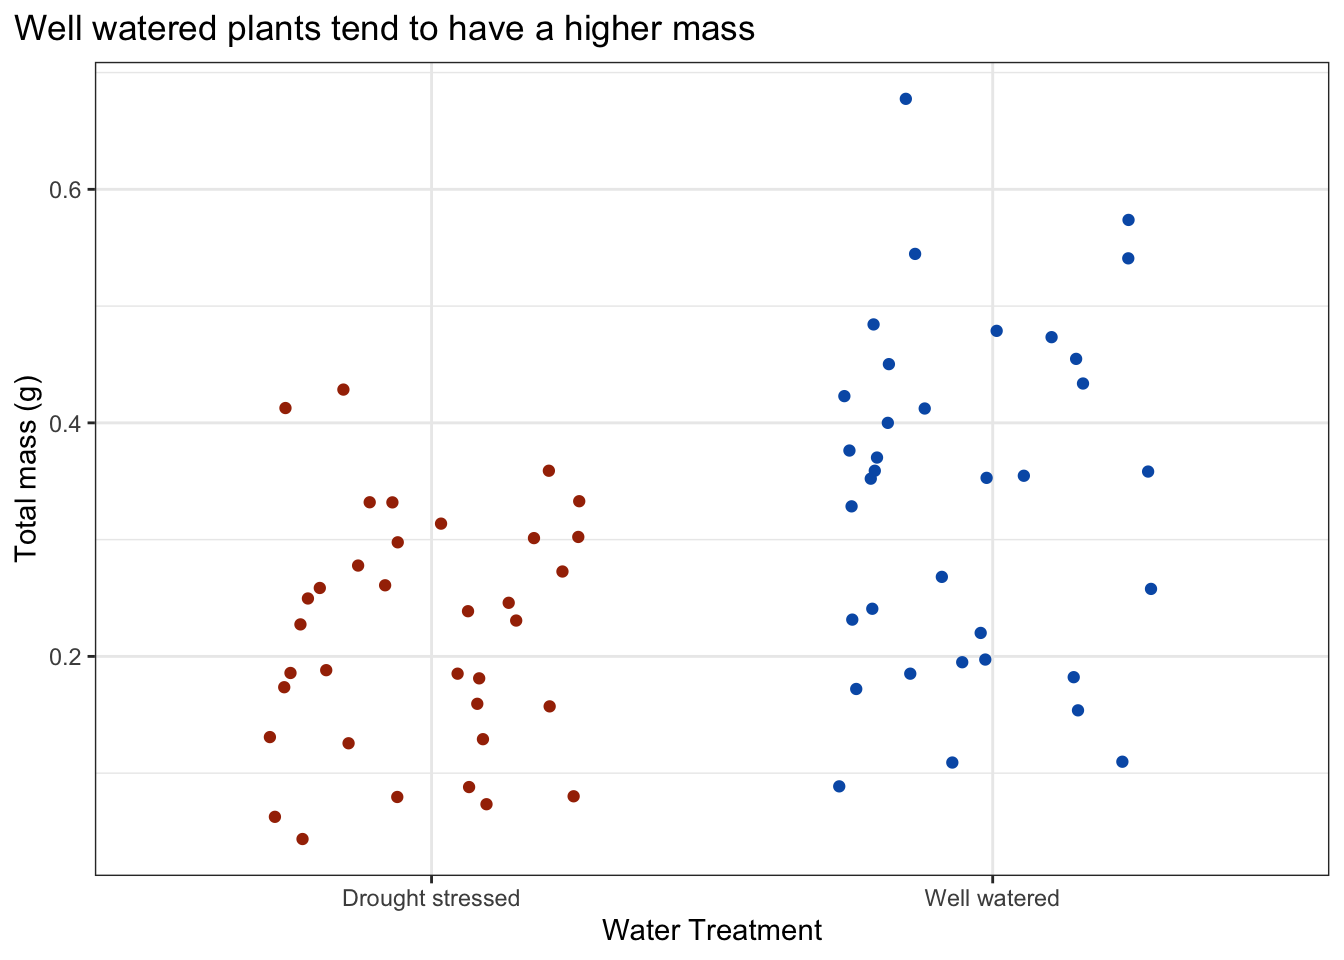
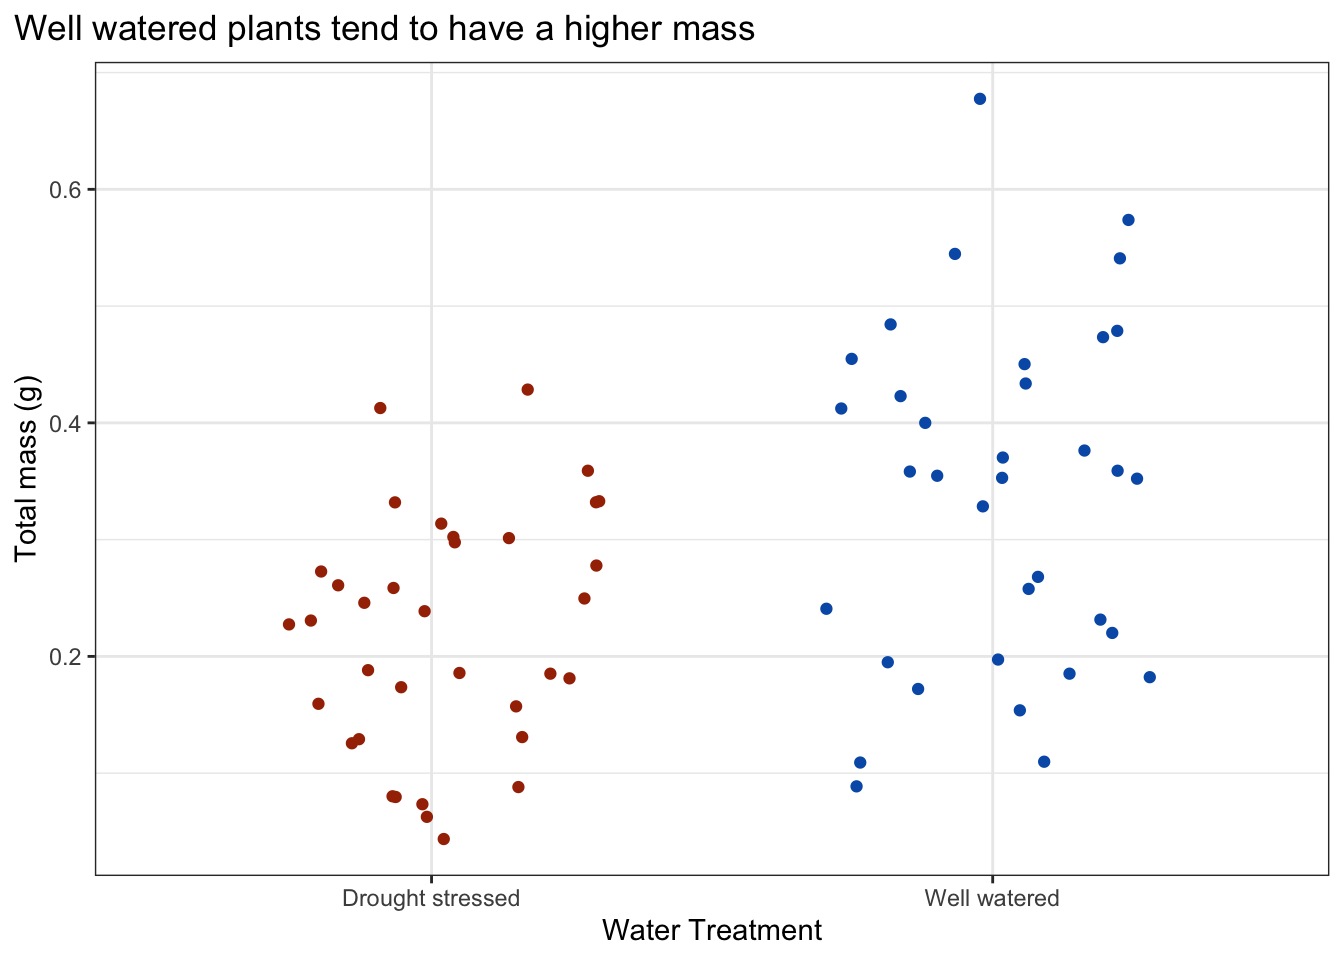
selected best model, looked at summary and wrote about the outcome

diff --git a/code/workshop-code.html b/code/workshop-code.html
@@ -301,16 +301,16 @@ pre > code.sourceCode > span > a:first-child::before { text-decoration: underlin
 <pre><code># A tibble: 10 × 4
    species_name               water_treatment    sla total_g
    &lt;fct&gt;                      &lt;fct&gt;            &lt;dbl&gt;   &lt;dbl&gt;
- 1 Lotus scoparius            Well watered     140.   0.110 
- 2 Penstemon centranthifolius Well watered     154.   0.268 
- 3 Encelia californica        Well watered     216.   0.359 
- 4 Salvia leucophylla         Drought stressed  77.6  0.186 
- 5 Salvia leucophylla         Drought stressed  96.1  0.278 
- 6 Salvia leucophylla         Well watered     127.   0.258 
- 7 Lotus scoparius            Drought stressed  90.9  0.0796
- 8 Penstemon centranthifolius Drought stressed 143.   0.0881
- 9 Grindelia camporum         Well watered     221.   0.473 
-10 Penstemon centranthifolius Well watered     158.   0.154 </code></pre>
+ 1 Penstemon centranthifolius Well watered     165.    0.197
+ 2 Encelia californica        Well watered     215.    0.328
+ 3 Eschscholzia californica   Drought stressed 105.    0.231
+ 4 Salvia leucophylla         Drought stressed  74.4   0.131
+ 5 Grindelia camporum         Drought stressed 172.    0.333
+ 6 Grindelia camporum         Drought stressed 113.    0.413
+ 7 Encelia californica        Drought stressed 196.    0.239
+ 8 Encelia californica        Drought stressed 180.    0.332
+ 9 Encelia californica        Drought stressed 161.    0.273
+10 Salvia leucophylla         Drought stressed  77.6   0.186</code></pre>
 </div>
 </div>
 </section>
@@ -487,55 +487,139 @@ pre > code.sourceCode > span > a:first-child::before { text-decoration: underlin
 <h2 class="anchored" data-anchor-id="model-fitting">Model fitting</h2>
 <div class="cell">
 <div class="code-copy-outer-scaffold"><div class="sourceCode cell-code" id="cb11"><pre class="sourceCode r code-with-copy"><code class="sourceCode r"><span id="cb11-1"><a href="#cb11-1" aria-hidden="true" tabindex="-1"></a><span class="co"># model 0: null model</span></span>
-<span id="cb11-2"><a href="#cb11-2" aria-hidden="true" tabindex="-1"></a></span>
-<span id="cb11-3"><a href="#cb11-3" aria-hidden="true" tabindex="-1"></a></span>
-<span id="cb11-4"><a href="#cb11-4" aria-hidden="true" tabindex="-1"></a><span class="co"># model 1: all predictors</span></span>
-<span id="cb11-5"><a href="#cb11-5" aria-hidden="true" tabindex="-1"></a></span>
-<span id="cb11-6"><a href="#cb11-6" aria-hidden="true" tabindex="-1"></a></span>
-<span id="cb11-7"><a href="#cb11-7" aria-hidden="true" tabindex="-1"></a><span class="co"># model 2: SLA and water treatment</span></span>
+<span id="cb11-2"><a href="#cb11-2" aria-hidden="true" tabindex="-1"></a>model0 <span class="ot">&lt;-</span> <span class="fu">lm</span>(total_g <span class="sc">~</span> <span class="dv">1</span>,</span>
+<span id="cb11-3"><a href="#cb11-3" aria-hidden="true" tabindex="-1"></a>             <span class="at">data =</span> drought_exp_clean)</span>
+<span id="cb11-4"><a href="#cb11-4" aria-hidden="true" tabindex="-1"></a></span>
+<span id="cb11-5"><a href="#cb11-5" aria-hidden="true" tabindex="-1"></a><span class="co"># model 1: all predictors</span></span>
+<span id="cb11-6"><a href="#cb11-6" aria-hidden="true" tabindex="-1"></a>model1 <span class="ot">&lt;-</span> <span class="fu">lm</span>(total_g <span class="sc">~</span> sla <span class="sc">+</span> water_treatment <span class="sc">+</span> species_name,</span>
+<span id="cb11-7"><a href="#cb11-7" aria-hidden="true" tabindex="-1"></a>             <span class="at">data =</span> drought_exp_clean)</span>
 <span id="cb11-8"><a href="#cb11-8" aria-hidden="true" tabindex="-1"></a></span>
-<span id="cb11-9"><a href="#cb11-9" aria-hidden="true" tabindex="-1"></a></span>
-<span id="cb11-10"><a href="#cb11-10" aria-hidden="true" tabindex="-1"></a><span class="co"># model 3: SLA and species</span></span>
-<span id="cb11-11"><a href="#cb11-11" aria-hidden="true" tabindex="-1"></a></span>
+<span id="cb11-9"><a href="#cb11-9" aria-hidden="true" tabindex="-1"></a><span class="co"># model 2: SLA and water treatment</span></span>
+<span id="cb11-10"><a href="#cb11-10" aria-hidden="true" tabindex="-1"></a>model2 <span class="ot">&lt;-</span> <span class="fu">lm</span>(total_g <span class="sc">~</span> sla <span class="sc">+</span> water_treatment,</span>
+<span id="cb11-11"><a href="#cb11-11" aria-hidden="true" tabindex="-1"></a>             <span class="at">data =</span> drought_exp_clean)</span>
 <span id="cb11-12"><a href="#cb11-12" aria-hidden="true" tabindex="-1"></a></span>
-<span id="cb11-13"><a href="#cb11-13" aria-hidden="true" tabindex="-1"></a><span class="co"># model 4: water treatment and species</span></span>
-<span id="cb11-14"><a href="#cb11-14" aria-hidden="true" tabindex="-1"></a></span>
-<span id="cb11-15"><a href="#cb11-15" aria-hidden="true" tabindex="-1"></a></span>
-<span id="cb11-16"><a href="#cb11-16" aria-hidden="true" tabindex="-1"></a><span class="co"># model 5: SLA</span></span>
+<span id="cb11-13"><a href="#cb11-13" aria-hidden="true" tabindex="-1"></a><span class="co"># model 3: SLA and species</span></span>
+<span id="cb11-14"><a href="#cb11-14" aria-hidden="true" tabindex="-1"></a>model3 <span class="ot">&lt;-</span> <span class="fu">lm</span>(total_g <span class="sc">~</span> sla <span class="sc">+</span> species_name,</span>
+<span id="cb11-15"><a href="#cb11-15" aria-hidden="true" tabindex="-1"></a>             <span class="at">data =</span> drought_exp_clean)</span>
+<span id="cb11-16"><a href="#cb11-16" aria-hidden="true" tabindex="-1"></a></span>
 <span id="cb11-17"><a href="#cb11-17" aria-hidden="true" tabindex="-1"></a></span>
-<span id="cb11-18"><a href="#cb11-18" aria-hidden="true" tabindex="-1"></a></span>
-<span id="cb11-19"><a href="#cb11-19" aria-hidden="true" tabindex="-1"></a><span class="co"># model 6: water treatment</span></span>
-<span id="cb11-20"><a href="#cb11-20" aria-hidden="true" tabindex="-1"></a></span>
+<span id="cb11-18"><a href="#cb11-18" aria-hidden="true" tabindex="-1"></a><span class="co"># model 4: water treatment and species</span></span>
+<span id="cb11-19"><a href="#cb11-19" aria-hidden="true" tabindex="-1"></a>model4<span class="ot">&lt;-</span> <span class="fu">lm</span>(total_g <span class="sc">~</span> water_treatment <span class="sc">+</span> species_name,</span>
+<span id="cb11-20"><a href="#cb11-20" aria-hidden="true" tabindex="-1"></a>            <span class="at">data =</span> drought_exp_clean)</span>
 <span id="cb11-21"><a href="#cb11-21" aria-hidden="true" tabindex="-1"></a></span>
-<span id="cb11-22"><a href="#cb11-22" aria-hidden="true" tabindex="-1"></a><span class="co"># model 7: species</span></span></code></pre></div><button title="Copy to Clipboard" class="code-copy-button"><i class="bi"></i></button></div>
+<span id="cb11-22"><a href="#cb11-22" aria-hidden="true" tabindex="-1"></a><span class="co"># model 5: SLA</span></span>
+<span id="cb11-23"><a href="#cb11-23" aria-hidden="true" tabindex="-1"></a>model5 <span class="ot">&lt;-</span> <span class="fu">lm</span>(total_g <span class="sc">~</span> sla,</span>
+<span id="cb11-24"><a href="#cb11-24" aria-hidden="true" tabindex="-1"></a>             <span class="at">data =</span> drought_exp_clean)</span>
+<span id="cb11-25"><a href="#cb11-25" aria-hidden="true" tabindex="-1"></a></span>
+<span id="cb11-26"><a href="#cb11-26" aria-hidden="true" tabindex="-1"></a><span class="co"># model 6: water treatment</span></span>
+<span id="cb11-27"><a href="#cb11-27" aria-hidden="true" tabindex="-1"></a>model6 <span class="ot">&lt;-</span> <span class="fu">lm</span>(total_g <span class="sc">~</span> water_treatment, <span class="co"># response ~ predictor + predictor</span></span>
+<span id="cb11-28"><a href="#cb11-28" aria-hidden="true" tabindex="-1"></a>             <span class="at">data =</span> drought_exp_clean)</span>
+<span id="cb11-29"><a href="#cb11-29" aria-hidden="true" tabindex="-1"></a></span>
+<span id="cb11-30"><a href="#cb11-30" aria-hidden="true" tabindex="-1"></a><span class="co"># model 7: species</span></span>
+<span id="cb11-31"><a href="#cb11-31" aria-hidden="true" tabindex="-1"></a>model7 <span class="ot">&lt;-</span> <span class="fu">lm</span>(total_g <span class="sc">~</span> species_name,</span>
+<span id="cb11-32"><a href="#cb11-32" aria-hidden="true" tabindex="-1"></a>             <span class="at">data =</span> drought_exp_clean)</span></code></pre></div><button title="Copy to Clipboard" class="code-copy-button"><i class="bi"></i></button></div>
 </div>
 </section>
 <section id="model-selection" class="level2">
 <h2 class="anchored" data-anchor-id="model-selection">Model selection</h2>
 <p>Insert code to use the <code>AICc()</code> function to calculate the AIC for each model.</p>
+<div class="cell">
+<div class="code-copy-outer-scaffold"><div class="sourceCode cell-code" id="cb12"><pre class="sourceCode r code-with-copy"><code class="sourceCode r"><span id="cb12-1"><a href="#cb12-1" aria-hidden="true" tabindex="-1"></a><span class="fu">AICc</span>(</span>
+<span id="cb12-2"><a href="#cb12-2" aria-hidden="true" tabindex="-1"></a>  model0,</span>
+<span id="cb12-3"><a href="#cb12-3" aria-hidden="true" tabindex="-1"></a>  model1,</span>
+<span id="cb12-4"><a href="#cb12-4" aria-hidden="true" tabindex="-1"></a>  model2,</span>
+<span id="cb12-5"><a href="#cb12-5" aria-hidden="true" tabindex="-1"></a>  model3,</span>
+<span id="cb12-6"><a href="#cb12-6" aria-hidden="true" tabindex="-1"></a>  model4,</span>
+<span id="cb12-7"><a href="#cb12-7" aria-hidden="true" tabindex="-1"></a>  model5,</span>
+<span id="cb12-8"><a href="#cb12-8" aria-hidden="true" tabindex="-1"></a>  model6,</span>
+<span id="cb12-9"><a href="#cb12-9" aria-hidden="true" tabindex="-1"></a>  model7</span>
+<span id="cb12-10"><a href="#cb12-10" aria-hidden="true" tabindex="-1"></a>) <span class="sc">|&gt;</span> </span>
+<span id="cb12-11"><a href="#cb12-11" aria-hidden="true" tabindex="-1"></a>  <span class="fu">arrange</span>(AICc)</span></code></pre></div><button title="Copy to Clipboard" class="code-copy-button"><i class="bi"></i></button></div>
+<div class="cell-output cell-output-stdout">
+<pre><code>       df       AICc
+model4  9 -156.19595
+model1 10 -153.75361
+model3  9 -124.07569
+model7  8 -120.30191
+model2  4  -95.82521
+model5  3  -88.85180
+model6  3  -86.76661
+model0  2  -74.98036</code></pre>
+</div>
+</div>
 <p>Arrange by decreasing AIC.</p>
+<p>Best model is model4: the one that includes only water treatment and species.</p>
 </section>
 <section id="model-diagnostics" class="level2">
 <h2 class="anchored" data-anchor-id="model-diagnostics">Model diagnostics</h2>
 <p>Insert code to look at the diagnostic plots for the best model.</p>
+<div class="cell">
+<div class="code-copy-outer-scaffold"><div class="sourceCode cell-code" id="cb14"><pre class="sourceCode r code-with-copy"><code class="sourceCode r"><span id="cb14-1"><a href="#cb14-1" aria-hidden="true" tabindex="-1"></a><span class="fu">par</span>(<span class="at">mfrow =</span> <span class="fu">c</span>(<span class="dv">2</span>, <span class="dv">2</span>)) <span class="co"># display plots in a 2x2 grid</span></span>
+<span id="cb14-2"><a href="#cb14-2" aria-hidden="true" tabindex="-1"></a><span class="fu">plot</span>(model4) <span class="co"># plot model 4 diagnostics</span></span></code></pre></div><button title="Copy to Clipboard" class="code-copy-button"><i class="bi"></i></button></div>
+<div class="cell-output-display">
+<div>
+<figure class="figure">
+<p><img src="workshop-code_files/figure-html/residual%20plots%20for%20model4-1.png" class="img-fluid figure-img" width="672"></p>
+</figure>
+</div>
+</div>
+</div>
+<p>Diagnostic plots look good.</p>
+<p>Residuals (standing in for errors) look normally distributed based on the QQ plot.</p>
+<p>Residuals look homoscedastic (have constant variance) based on Residuals vs.&nbsp;Fitted plot and Scale-Location plot.</p>
+<p>No outliers influencing model estimates of coefficients.</p>
 </section>
 <section id="summary" class="level2">
 <h2 class="anchored" data-anchor-id="summary">Summary</h2>
 <p>Insert code to display the summary for the best model.</p>
+<div class="cell">
+<div class="code-copy-outer-scaffold"><div class="sourceCode cell-code" id="cb15"><pre class="sourceCode r code-with-copy"><code class="sourceCode r"><span id="cb15-1"><a href="#cb15-1" aria-hidden="true" tabindex="-1"></a><span class="fu">summary</span>(model4)</span></code></pre></div><button title="Copy to Clipboard" class="code-copy-button"><i class="bi"></i></button></div>
+<div class="cell-output cell-output-stdout">
+<pre><code>
+Call:
+lm(formula = total_g ~ water_treatment + species_name, data = drought_exp_clean)
+
+Residuals:
+      Min        1Q    Median        3Q       Max 
+-0.157087 -0.046953 -0.003733  0.041244  0.192657 
+
+Coefficients:
+                                       Estimate Std. Error t value Pr(&gt;|t|)    
+(Intercept)                             0.05455    0.02451   2.225  0.02973 *  
+water_treatmentWell watered             0.11695    0.01733   6.746 5.90e-09 ***
+species_namePenstemon centranthifolius  0.05003    0.03243   1.543  0.12799    
+species_nameSalvia leucophylla          0.12020    0.03243   3.706  0.00045 ***
+species_nameEncelia californica         0.21774    0.03243   6.714 6.70e-09 ***
+species_nameStipa pulchra               0.22881    0.03243   7.055 1.72e-09 ***
+species_nameEschscholzia californica    0.23164    0.03243   7.143 1.22e-09 ***
+species_nameGrindelia camporum          0.31335    0.03243   9.662 5.53e-14 ***
+---
+Signif. codes:  0 '***' 0.001 '**' 0.01 '*' 0.05 '.' 0.1 ' ' 1
+
+Residual standard error: 0.07252 on 62 degrees of freedom
+Multiple R-squared:  0.7535,    Adjusted R-squared:  0.7257 
+F-statistic: 27.08 on 7 and 62 DF,  p-value: &lt; 2.2e-16</code></pre>
+</div>
+</div>
 <p><strong>What are the reference levels?</strong></p>
-<p><strong>What does the <code>(Intercept)</code> represent?</strong></p>
+<p>Drought treatment and Lotus scoparius because they are not listed in the summary output.</p>
+<p><strong>What does the <code>(Intercept)</code> represent?</strong><br>
+Estimated mass for drought stressed lotus scoparius 0.055 +/- 0.02 (SE) g</p>
 <p><strong>What does <code>water_treatmentWell watered</code> represent?</strong></p>
+<p>This is the model prediction for the difference in Lotus scoparius mass between the well watered and drought stressed treatments. The model predicts the difference is 0.12 +/- 0.02 (SE) g</p>
 <p><strong>What does <code>species_namePenstemon centranthifolius</code> represent?</strong></p>
+<p>This is the model prediction for the difference between Penstemon centranthifolius mass in the well watered treatment and Lotus scoparius mass in the well watered treatment . The model predicts that this difference is 0.05 +/- 0.03 (SE) g.</p>
 <p><strong>What does <code>species_nameEschscholzia californica</code> represent?</strong></p>
+<p>This is the model prediction for the difference between Eschscholzia californica mass in the well watered treatment and Lotus scoparius mass in the well watered treatment. The model predicts that this difference is 0.23 +/- 0.03 (SE) g.</p>
 </section>
 <section id="stop-and-think-what-does-this-model-mean" class="level2">
 <h2 class="anchored" data-anchor-id="stop-and-think-what-does-this-model-mean">Stop and think: what does this model mean?</h2>
 <p><strong>What is the best model?</strong></p>
-<p>[insert your response here]</p>
+<p>The best model includes water treatment and species as predictors.</p>
 <p><strong>How much variation in the response (total mass, in grams) does this model explain?</strong></p>
-<p>[insert your response here]</p>
+<p>This model explains 72% of the variation in plant mass.</p>
 <p><strong>How do we interpret the effects of the predictors on the response variable (again, total mass in grams)?</strong></p>
-<p>[insert your response here]</p>
+<p>Water treatment influences plant mass. Species influences plant mass.</p>
 </section>
 </section>
 <section id="model-predictions" class="level1">
